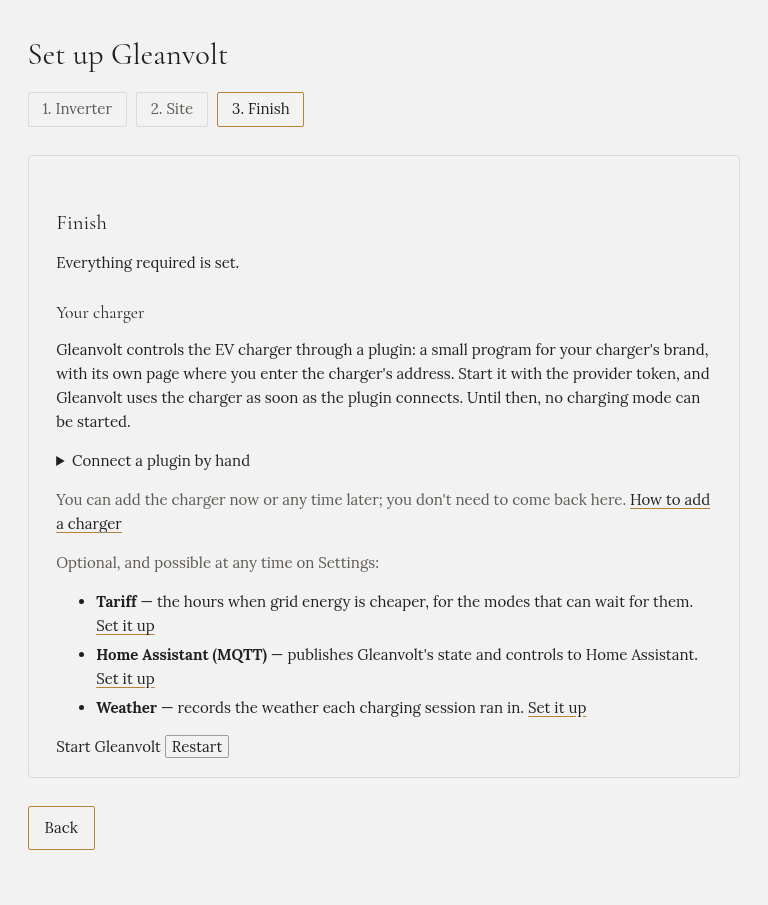
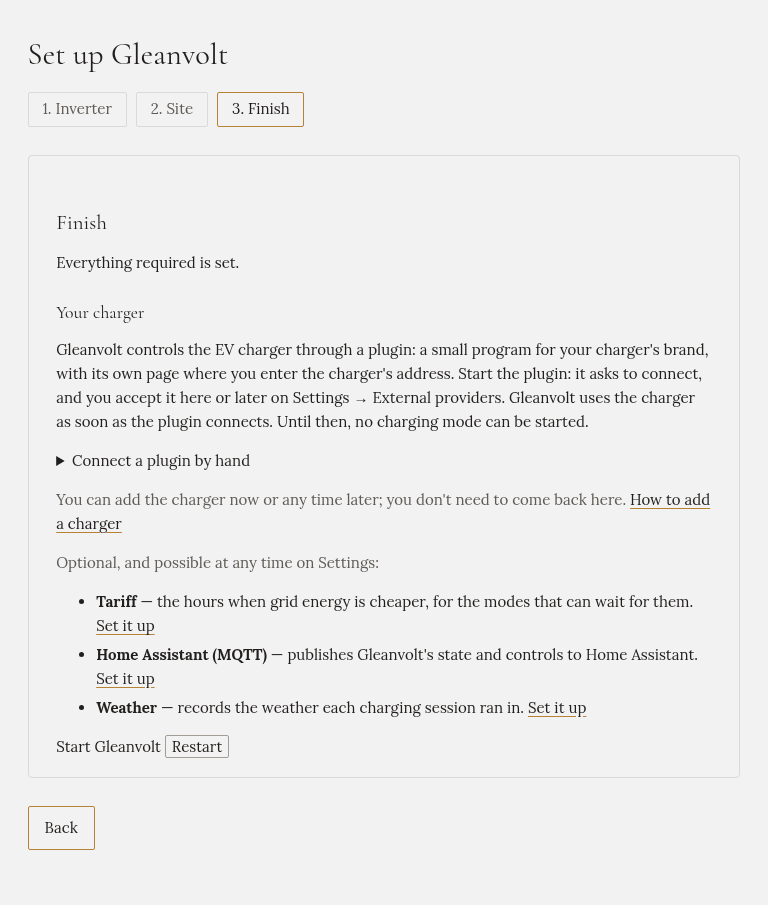
Wizard and setup: a plugin asks to connect and is accepted, no token to copy
The Finish step and the CLI's setup still said to start the plugin with the provider token.

Changed region(s): [[0.0625, 0.4022, 0.9375, 0.495]]

diff --git a/src/Gleanvolt.Hosting/Cli/GleanvoltCli.cs b/src/Gleanvolt.Hosting/Cli/GleanvoltCli.cs
@@ -349,8 +349,8 @@ public static class GleanvoltCli
 
             console.Out.WriteLine("The car, the tariff, Home Assistant and the API are set on Settings, or with setup --file.");
             console.Out.WriteLine(
-                "The charger is a plugin with its own setup page. Start it with the provider token from Settings → "
-                + "External providers; Gleanvolt uses it as soon as it connects.");
+                "The charger is a plugin with its own setup page. Start it: it asks to connect, and you accept it on "
+                + "Settings → External providers. Gleanvolt uses it as soon as it connects.");
             console.Out.WriteLine();
         }
         catch (EndOfInput)
